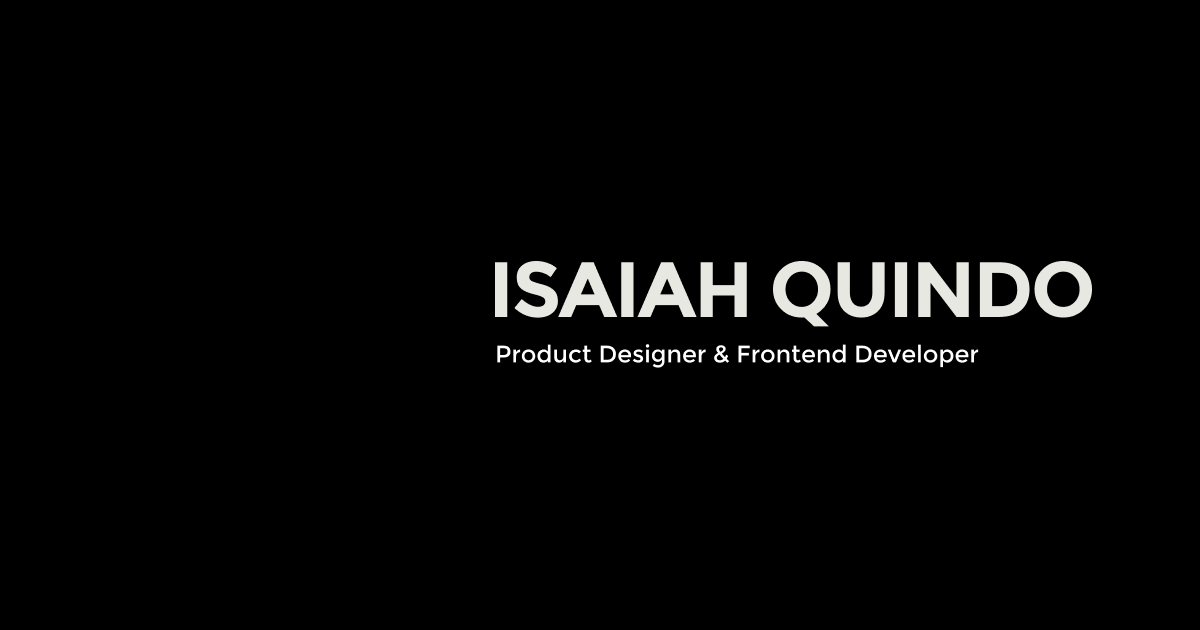
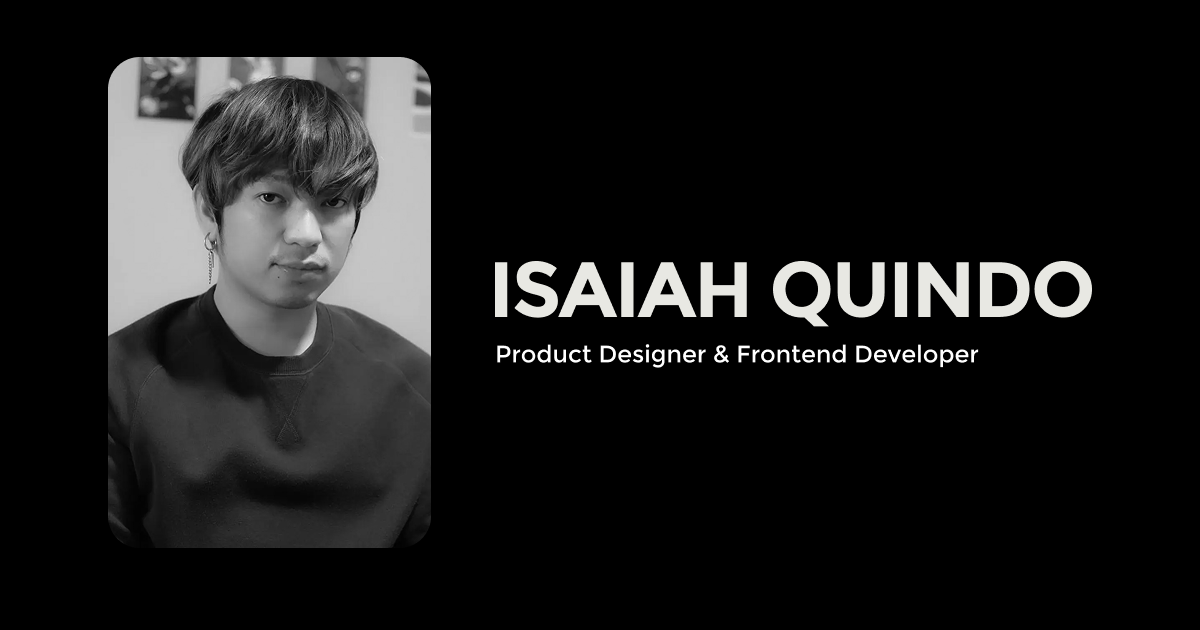
Update layout.tsx metadata and replace Open Graph image
- Revised Open Graph description for clarity and branding.
- Updated the Open Graph image to enhance visual representation on social platforms.

Changed region(s): [[0.0925, 0.0905, 0.37, 0.8746]]

diff --git a/app/layout.tsx b/app/layout.tsx
@@ -19,7 +19,7 @@ export const metadata: Metadata = {
   openGraph: {
     title: "Isaiah Quindo | Product Designer & Frontend Developer",
     description:
-      "I&apos;m a product designer and frontend developer driven by a passion for creating user-centric experience.",
+      "Product designer and frontend developer driven by a passion for creating user-centric experience.",
     images: [
       {
         url: "/images/fb-opengraph.png", // Replace with your image URL
